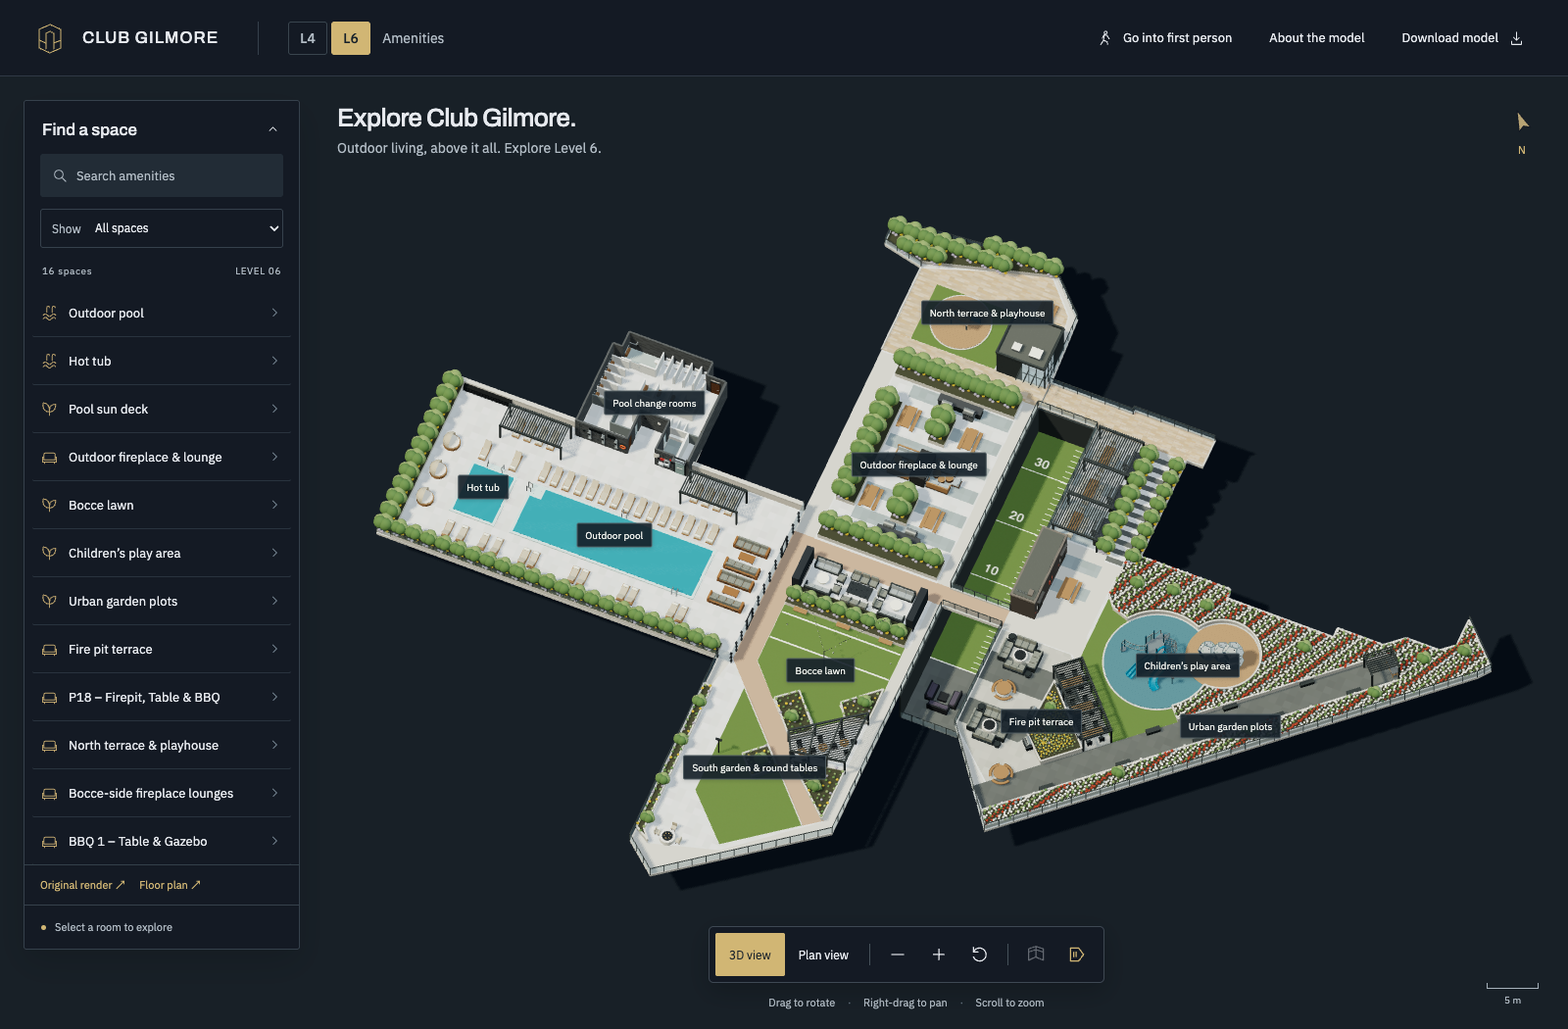
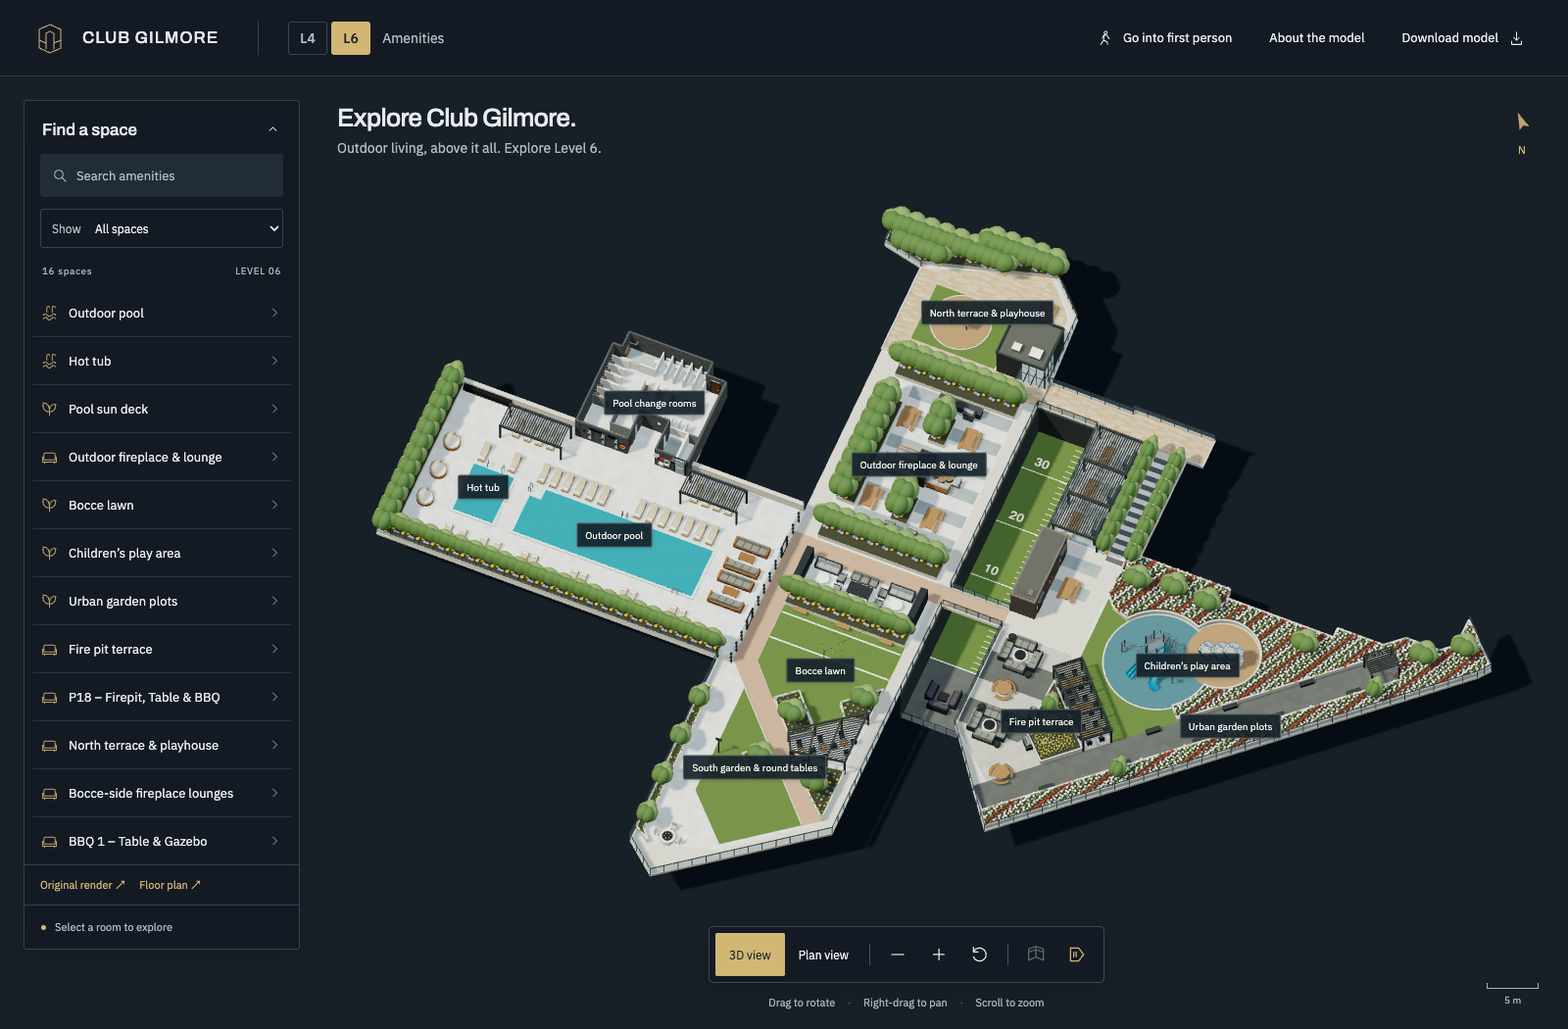
Refine Level 6 scale and navigation based on user feedback; adjust eye height, tree sizes, and walkable areas for improved realism

diff --git a/src/level6.js b/src/level6.js
@@ -13,6 +13,20 @@ const U=.06;
 const PERGOLA_H=2.54,BAY_W=4.572/U,BAY_D=3.81/U,FENCE_H=2.032;
 // Posts carry .19 m of beam and slat above them, so they stop short of 2.54.
 const POST_H=PERGOLA_H-.19;
+// IMG_4005/IMG_4036: the deck's maples stand two to three times the height of
+// the .95 m BBQ counters in front of them, well clear of a walker's head. The
+// shared tree() primitive is 2.9 m tall at scale 1, so planting is sized from a
+// height in metres rather than an eyeballed scale.
+const treeH=m=>m/2.9;
+// Height comes from the species, spread from the bed: tree() carries a ~3.4 m
+// crown at deck height, which a .9 m planter cannot hold without swallowing the
+// walk beside it. Narrow beds keep the full height and squash the crown across
+// the bed only, so the row reads as the tall green strip the render shows.
+const CROWN=3.4;
+const bedSpread=(widthTraceUnits,U)=>Math.max(.34,Math.min(1,(widthTraceUnits*U+.8)/CROWN));
+const slimTree=(parent,x,z,metres,spread=1,acrossX=true)=>{
+ const g=makeGroup(parent,x,z,0);tree(g,0,0,0,treeH(metres));
+ if(acrossX)g.scale.x=spread;else g.scale.z=spread;return g;};
 const world=([x,z])=>[(x-910)*U,(z-670)*U];
 const rect=(x,z,w,d)=>[[x,z],[x+w,z],[x+w,z+d],[x,z+d]];
 // The three BBQ bays are centred on the render's three bay tables (px y
@@ -117,17 +131,27 @@ export function createLevel6Model(){
  // to the coping. The pairs stand at the northwest corner (over a submerged
  // corner step), mid-way along the north edge, and on the south edge just short
  // of the southeast corner. (x,z) is the water edge; (dx,dz) points to the deck.
- const poolRail=(x,z,dx,dz)=>{const [a,b]=world([x+dx*8.5,z+dz*8.5]),[c,d]=world([x+dx*1.2,z+dz*1.2]);
+ // The deck foot sits 5.5 trace units (.33 m) off the water, not 8.5: at .51 m
+ // the rails pinched the north walk shut between the loungers and the coping.
+ const poolRail=(x,z,dx,dz)=>{const [a,b]=world([x+dx*5.5,z+dz*5.5]),[c,d]=world([x+dx*1.2,z+dz*1.2]);
   rod(props,[a,0,b],[a,.95,b],.035);rod(props,[a,.95,b],[c,.82,d],.035);rod(props,[c,.82,d],[c,.16,d],.035);};
  B(252,734,20,20,.186,mats.pooltile);B(249,731,14,14,.196,mats.pooltile);
  for(const z of [728,736.5])poolRail(242,z,-1,0);
  for(const x of [393.8,402.2])poolRail(x,724,0,-1);
  for(const x of [522.8,531.2])poolRail(x,814,0,1);
  const lounger=(x,z,rot=0)=>{const [a,b]=world([x,z]),g=makeGroup(props,a,b,rot);box(g,0,.28,0,.73,.12,1.9,'oak');box(g,0,.39,.24,.65,.14,1.3,'linen');const back=box(g,0,.68,-.64,.65,.13,.8,'linen');back.rotation.x=.68;for(const xx of [-.28,.28])for(const zz of [-.7,.7])box(g,xx,.14,zz,.055,.28,.06,'oak');cyl(g,0,.52,.7,.12,.55,'white').rotation.z=Math.PI/2;};
- for(let x=270;x<560;x+=21){lounger(x,699);}
+ // User reports 2026-09-12. The band between the pergola posts (z=663.3) and the
+ // coping (719.5) is 3.37 m; a 1.9 m lounger leaves 1.47 m, which is one usable
+ // walk, not two — splitting it gave .73 m either side and the walker scraped
+ // both. The render and IMG_4026 both put the beds hard against the coping with
+ // the circulation behind them, so that is where the walk goes: 1.3 m clear.
+ // Two beds are dropped for a 3 m aisle onto the change rooms' entry court,
+ // whose south wall opens between x=355 and 407, so the pool edge, the ladder
+ // and the change rooms all connect.
+ for(let x=270;x<560;x+=21)if(x!==375&&x!==396)lounger(x,701);
  // South-side pairs, evenly spaced from the first (centre 286) so the last
  // bed's east side lines up with the pool's east coping edge (x=558.5).
- for(const c of [286,372.3,458.6,544.9])for(const d of [-8,8])lounger(c+d,852,Math.PI);for(const x of [145,198,249])lounger(x,698);for(const x of [145,170,207,230])lounger(x,852,Math.PI);
+ for(const c of [286,372.3,458.6,544.9])for(const d of [-8,8])lounger(c+d,859,Math.PI);for(const x of [145,198,249])lounger(x,701);for(const x of [145,170,207,230])lounger(x,859,Math.PI);
  // Pergola loungers on the north edge. User requests 2026-09-11: three added
  // beside the lone one under the west pergola; the east pergola's x=470 lounger
  // (hard against the change-room storage door) is removed. Each group centres
@@ -230,8 +254,9 @@ export function createLevel6Model(){
   canopy.position.set(a,.66,b);canopy.rotation.y=-Math.PI/2;
   props.add(canopy);
  }
- // dz nudges the planting anchor across a narrow bed; treeScale trims canopy size.
- const planter=(poly,trees=true,dz=0,treeScale=1)=>{surface(poly,stone,.06,.58);surface(poly,soil,.66);const bounds=new T.Box2().setFromPoints(poly.map(p=>new T.Vector2(...p)));for(let x=bounds.min.x+10;x<bounds.max.x-4;x+=26)for(let z=bounds.min.y+10;z<bounds.max.y-4;z+=26){let inside=false;for(let i=0,j=poly.length-1;i<poly.length;j=i++){const [a,b]=poly[i],[c,d]=poly[j];if((b>z)!==(d>z)&&x<(c-a)*(z-b)/(d-b)+a)inside=!inside;}if(inside){const [a,b]=world([x,z+dz]);if(trees){tree(props,a,b,0,(.7+((x+z)%13)/32)*treeScale);for(let k=0;k<7;k++)mesh(props,new T.IcosahedronGeometry(.18,0),k%5?flower:lavender,a+Math.sin(k*2.4)*.6,.74,b+Math.cos(k*2.4)*.6,1,.6,1);}else{for(let k=0;k<3;k++)mesh(props,new T.IcosahedronGeometry(.32,0),k%2?'leaf':'leaflight',a+k*.2,.8,b,.8,.7,.8);}}}};
+ // dz nudges the planting anchor across a narrow bed; treeScale trims the crown
+ // further, on top of the spread the bed's own width already sets.
+ const planter=(poly,trees=true,dz=0,treeScale=1)=>{surface(poly,stone,.06,.58);surface(poly,soil,.66);const bounds=new T.Box2().setFromPoints(poly.map(p=>new T.Vector2(...p)));const bedW=bounds.max.x-bounds.min.x,bedD=bounds.max.y-bounds.min.y,spread=bedSpread(Math.min(bedW,bedD),U)*treeScale;for(let x=bounds.min.x+10;x<bounds.max.x-4;x+=26)for(let z=bounds.min.y+10;z<bounds.max.y-4;z+=26){let inside=false;for(let i=0,j=poly.length-1;i<poly.length;j=i++){const [a,b]=poly[i],[c,d]=poly[j];if((b>z)!==(d>z)&&x<(c-a)*(z-b)/(d-b)+a)inside=!inside;}if(inside){const [a,b]=world([x,z+dz]);if(trees){slimTree(props,a,b,3.5+((x+z)%13)/13,spread,bedW<bedD);for(let k=0;k<7;k++)mesh(props,new T.IcosahedronGeometry(.2,0),k%5?flower:lavender,a+Math.sin(k*2.4)*.6*(bedW<bedD?spread:1),.85,b+Math.cos(k*2.4)*.6*(bedW<bedD?1:spread),1,.6,1);}else{for(let k=0;k<3;k++)mesh(props,new T.IcosahedronGeometry(.4,0),k%2?'leaf':'leaflight',a+k*.2,.95,b,.8,.7,.8);}}}};
  for(const p of [rect(40,596,25,304),rect(65,879,570,22),rect(699,280,208,32),rect(699,600,208,34),rect(699,357,32,201),rect(795,353,28,51),rect(795,510,28,51)])planter(p);
  // IMG_4005/IMG_4057 and the render crop: behind the pergola grills a paved walk
  // runs between two raised tree planters. The west bed's wall stands at
@@ -294,14 +319,15 @@ export function createLevel6Model(){
   surface(poly,stone,.06,.58);surface(poly,soil,.66);
   for(let i=0;i<poly.length;i++)line(poly[i],poly[(i+1)%poly.length],.2,stone,.18,.59);
   const bounds=new T.Box2().setFromPoints(poly.map(p=>new T.Vector2(...p)));
-  const narrow=bounds.max.x-bounds.min.x<20,stepX=step||(narrow?5:9),stepZ=step||(narrow?12:9);
+  const bedW=bounds.max.x-bounds.min.x,bedD=bounds.max.y-bounds.min.y;
+  const narrow=bedW<20,stepX=step||(narrow?5:9),stepZ=step||(narrow?12:9),spread=bedSpread(Math.min(bedW,bedD),U);
   for(let x=bounds.min.x+3;x<bounds.max.x-2;x+=stepX)for(let z=bounds.min.y+3;z<bounds.max.y-2;z+=stepZ)if(insidePolygon(x,z,poly)){
    const jitter=Math.sin(x*1.73+z*.91),[wx,wz]=world([x+jitter*1.2,z+Math.cos(x*.47-z)*1.2]);
    if(clearance&&!clearance(x+jitter*1.2,z+Math.cos(x*.47-z)*1.2))continue;
    const material=palette?palette[Math.round(x*2+z)%palette.length]:(Math.round(x+z)%5===0)?flower:(Math.round(x*2+z)%7===0)?lavender:(Math.round(x+z)%2?'leaflight':'leaf');
    mesh(props,new T.IcosahedronGeometry(.13+(Math.abs(jitter)*.05),0),material,wx,.79+(Math.abs(jitter)*.06),wz,.9,.65,.9);
   }
-  for(const [x,z] of treesAt){const [wx,wz]=world([x,z]);tree(props,wx,wz,0,.62);}
+  for(const [x,z] of treesAt){const [wx,wz]=world([x,z]);slimTree(props,wx,wz,3.4,spread,bedW<bedD);}
  };
  southBeds.forEach((bed,i)=>southPlanter(bed,southTreeAnchors[i]));
  // IMG_3991: the second user-marked object is a single black post light in
@@ -398,7 +424,7 @@ export function createLevel6Model(){
   .filter(([x,z])=>playClearance(x,z,.76/U)>0);
  southPlanter(playgroundPlanter,playgroundTrees,eastPalette,5,(x,z)=>playClearance(x,z,.19/U)>0);
  // The render carries a few small trees in the parapet-side bed.
- for(const t of [.28,.55,.8]){const [x,z]=world(at(t,20));tree(props,x,z,0,.6);}
+ for(const t of [.28,.55,.8]){const [x,z]=world(at(t,20));slimTree(props,x,z,3.2,.62);}
  surface(band(.012,.86,35,83),paveGrey,.075);
  // Dark bench blocks alternate along the walk. Blocks 0 and 2 are skipped: 0
  // landed inside the fire-terrace round table's curved benches, 2 against the
@@ -617,7 +643,7 @@ export function createLevel6Model(){
   for(let i=0;i<6;i++){const a=i*1.07+px*.09;mesh(props,new T.ConeGeometry(.045,.48+(i%3)*.08,5),i%3?'leaflight':flower,x+Math.cos(a)*.32,.9,z+Math.sin(a)*.26,.65,1,.65);}
   for(let i=0;i<3;i++){const a=i*2.1;mesh(props,new T.IcosahedronGeometry(.17+(i%2)*.07,0),i%2?flower:lavender,x+Math.cos(a)*.35,.88,z+Math.sin(a)*.28,.8,.75,.8);}
  }
- for(const [tx,tz] of [[1169,784],[1185,821]]){const [x,z]=world([tx,tz]);tree(props,x,z,0,.5);}
+ for(const [tx,tz] of [[1169,784],[1185,821]]){const [x,z]=world([tx,tz]);slimTree(props,x,z,2.8,.7);}
  // IMG_4010: these read as plain black boxes because the hood used the dark local
  // `metal`, not stainless. Rebuilt to the same idiom as the counter BBQs above —
  // stainless firebox and rounded lid, black fascia, steel knobs, dark cabinet.

diff --git a/src/firstPerson/FirstPersonController.js b/src/firstPerson/FirstPersonController.js
@@ -1,7 +1,7 @@
 import { Euler, PerspectiveCamera, Vector3 } from 'three';
 import { FirstPersonInput } from './FirstPersonInput.js';
 
-const DEFAULTS = { spawn: new Vector3(), yaw: 0, floorHeight: 0, eyeHeight: 1.68, walkSpeed: 2.2, sprintSpeed: 5.4 };
+const DEFAULTS = { spawn: new Vector3(), yaw: 0, floorHeight: 0, eyeHeight: 1.664, walkSpeed: 2.2, sprintSpeed: 5.4 };
 const clamp = (value, min, max) => Math.min(max, Math.max(min, value));
 // Cosmetic hop: eye height only, navigation stays 2D so railings still block mid-air.
 const GRAVITY = 9.8, JUMP_HEIGHT = .9; // ~3 ft peak, below railing height
@@ -11,7 +11,10 @@ export class FirstPersonController {
     this.scene = scene; this.domElement = domElement; this.navigationWorld = navigationWorld;
     this.config = { ...DEFAULTS, ...config, spawn: config.spawn?.clone?.() || new Vector3().copy(config.spawn || DEFAULTS.spawn) };
     this.onStateChange = onStateChange; this.requestRender = requestRender;
-    this.camera = new PerspectiveCamera(68, 1, .05, 500);
+    // Three's fov is vertical: 68 was ~100 degrees across at 16:9, a fisheye that
+    // shrank everything nearby and made the walker feel taller than the deck.
+    // 50 vertical (~80 across) matches the site photographs' ~50 degree framing.
+    this.camera = new PerspectiveCamera(50, 1, .05, 500);
     this._position = this.config.spawn.clone(); this.yaw = this.config.yaw; this.pitch = 0;
     this._active = false; this._paused = false; this.avatar = null;
     this.motionSpeed = 0; this.walkPhase = 0; this.jumpY = 0; this.jumpV = 0;
@@ -35,7 +38,8 @@ export class FirstPersonController {
     if (this.avatar?.root?.parent) this.avatar.root.parent.remove(this.avatar.root);
     this.avatar = avatar || null;
     if (avatar?.root && this.scene && !avatar.root.parent) this.scene.add(avatar.root);
-    if (avatar?.root) avatar.root.visible = this._active;
+    // The body is modelled for a 1.68 m eye, so it follows the configured one.
+    if (avatar?.root) { avatar.root.scale.setScalar(this.config.eyeHeight / 1.68); avatar.root.visible = this._active; }
     return this;
   }
   enter() {

diff --git a/src/firstPerson/NavigationWorld.js b/src/firstPerson/NavigationWorld.js
@@ -81,7 +81,8 @@ export function createLevel6Navigation(model) { // model is accepted for the sha
     spawn: new THREE.Vector3(spawn.x, 0.08, spawn.y),
     yaw: Math.PI / 2,
     floorHeight: 0.08,
-    eyeHeight: 1.68,
+    // 5 ft 10 in (1.778 m) tall; the eyes sit ~.11 m below the crown.
+    eyeHeight: 1.664,
     radius: 0.30,
     walkSpeed: 2.2,
     walkablePolygons: WALKABLE.map(poly => poly.map(point => point.clone())),

diff --git a/MODEL-SOURCES.md b/MODEL-SOURCES.md
@@ -1329,3 +1329,102 @@ Still unmeasured, and still inference: pool and hot-tub dimensions, deck-edge ra
 heights, planter and bench sizes, playground equipment, buildings and trees. They scale with the
 trace unit but no tape has been put to them.
 
+### Walker's eye height and planting heights — September 12, 2026
+
+Two follow-ups to the measured deck scale, both from the user walking Level 6 in first person and
+reporting that they still stood too tall for their surroundings.
+
+**Eye height.** The walker is a 5 ft 10 in (1.778 m) person, so `eyeHeight` is 1.664 m — stature
+less the ~0.11 m from eye to crown — in `createLevel6Navigation()` and in `FirstPersonController`'s
+defaults. It was 1.68 m, which is the eye height of a person about 1.80 m tall. `FirstPersonAvatar`
+is modelled around a 1.68 m eye, so the controller now scales its root by `eyeHeight / 1.68`
+rather than leaving the legs and arms at the old size.
+
+**Planting.** That change is only 1.6 cm, and it was not what made the walk feel wrong: the deck's
+trees were the problem. IMG_4005 (the northeast planter walk) and IMG_4036 (the lounge BBQ
+counter) both show maples standing two to three metres above a standing adult — three to four
+times the 0.6 m planter walls, and far above the 0.95 m counters. The model's trees were 1.45 m to
+3.2 m tall, most of them under 2 m, so a walker looked over the entire deck.
+
+`tree()` in `model.js` is 2.9 m tall at scale 1 and is shared with Level 4, so it is unchanged;
+Level 6 now sizes its plantings by height in metres through `treeH(m)`:
+
+- planter beds: 3.5–4.4 m, still multiplied by each bed's `treeScale` (the 0.74 narrow-bed beds
+  come out 2.6–3.3 m);
+- south and playground bed anchors: 3.4 m; northeast walk-end trees: 3.2 m; fire-terrace pair:
+  2.8 m.
+
+Bed flowering clumps grew from 0.18 m to 0.26 m radius and sit at 0.85 m, and the hedge clumps in
+tree-less beds from 0.32 m to 0.4 m at 0.95 m, which puts their tops near 1.2 m — the height of
+the flowering masses behind the counters in IMG_4036. Canopies still carry no collision, so the
+taller trees do not block the walk.
+
+Everything else with a hand-authored height was checked against the same photographs and left
+alone: planter walls (0.58 m plus coping), BBQ counters (1.02 m), deck-edge glass guards (1.19 m),
+the north parapet (1.15 m), change-room counters (0.84–0.9 m) and the 3 m walk-mode partitions.
+
+### Crown spread fitted to each bed — September 12, 2026
+
+Raising the trees to their real height also gave every one of them a ~3.4 m crown, and several of
+the deck's beds are far narrower than that: the strip east of the BBQ bays is 15.7 trace units,
+0.94 m. The user's screenshot showed those crowns meeting over the paved walk beside the bays and
+closing it off.
+
+Height and spread are now separate. `bedSpread()` takes each bed's own narrow dimension and
+returns the fraction of the crown that fits, allowing 0.4 m of overhang per side and never going
+below 0.34; `slimTree()` applies it across the bed's narrow axis only, so the crown stays full
+along the bed and the row reads as the continuous green strip the render shows. A bed's
+`treeScale` argument still multiplies on top (the 0.74 bocce-side bed keeps its extra trim).
+Trunks were always inside their beds, so this was a visual obstruction, not a navigation one —
+canopies carry no collision. Bed flower clumps went back to 0.2 m and their offsets take the same
+spread, so they no longer spill onto the paving.
+
+Worked examples: the 0.94 m bay strip gets 0.51 (1.7 m of crown across a 0.94 m bed), the 1.32 m
+pool-deck strip 0.62, and the 1.92 m lounge beds 0.80. Beds wider than about 2.6 m are unaffected.
+
+### Pool-side walks — September 12, 2026
+
+The user marked the circulation loop around the pool as too tight to walk. Measured: the north
+lounger row sat at trace z = 699 with a 1.9 m bed, leaving its feet at z = 714.8 against coping at
+z = 719.5 — **0.28 m**, narrower than the walker's own 0.30 m radius, so the pool's north side
+could not be entered at all. A navigation probe over the built scene confirmed it: 70 of 78 sample
+points along that walk failed `isSafe`, and the only walkable band was *behind* the loungers.
+
+Both rows now sit back against their own edges: the north row (and the three hot-tub-end beds) at
+z = 680, the south row at z = 859, hard against the z = 879 edge planter their backs already face.
+That leaves about 1.4 m of walk on each pool side — 0.78 m of free travel for the player's centre
+line on the north — with the rows still inside their own strips. The pool, coping, ladders, deck
+sofas and the east and west ends are untouched; the east walk past the sofa pairs was already
+1.35 m.
+
+Lounger positions are illustrative in the first place (the render shows the rows, not their
+setback), so this moves furniture within its own evidence, not against a measurement.
+
+**Superseded the same day** — see "One walk, not two" below. Pulling the north row back opened the
+pool side but closed the walk behind it, which is the route to the change rooms.
+
+### One walk, not two, on the pool's north side — September 12, 2026
+
+The user then could not reach the change rooms: the row at z = 680 left only 0.54 m behind it, and
+the gaps between adjacent beds are 0.54 m as well, so the row had become a wall across the deck.
+
+The band is the constraint. From the pergola posts (their faces reach z = 663.3) to the coping
+(z = 719.5) is 3.37 m. A 1.9 m lounger leaves 1.47 m, which is **one** usable walk, not two: split
+evenly it gives 0.73 m either side, and with the 0.30 m walker radius that is a 0.13 m margin on
+each — the scraping the user was reporting. The supplied render and IMG_4026 both settle it by
+putting the beds hard against the coping with the circulation behind them, so the model now does
+the same:
+
+- north row at z = 701, its feet 0.16 m off the coping, giving a continuous **1.3 m walk behind**
+  it that clears the pergola posts along the whole deck;
+- the beds at x = 375 and 396 are dropped for a **3 m aisle** onto the change rooms' entry court,
+  whose south wall opens between x = 355 and 407, so the change rooms, the pool edge and the north
+  ladder all connect;
+- the south row stays at z = 859 with its 1.4 m pool-side walk — that band is wider and takes one;
+- pool ladder rails now foot 5.5 trace units (0.33 m) off the water instead of 8.5 (0.51 m), which
+  is also closer to IMG_4028/4032; at 0.51 m they stood in the walk.
+
+Verified by probing `navigationWorld.isSafe()` over the built scene rather than by eye: the walk
+behind the row, the south walk and the change-room aisle are now clear at every sample point, and
+`verify-level6.cjs` asserts all three on every run.
+

diff --git a/QA.md b/QA.md
@@ -428,3 +428,58 @@ The plan, sun-deck, BBQ-bay and desktop views were inspected after the rescale a
 furniture collisions from the 7.7% deck shrink. The rest of the deck was not walked through at
 close range; anything not listed above remains pending visual validation.
 
+### First-person height pass — September 12, 2026
+
+`eyeHeight` is 1.664 m (5 ft 10 in) and the avatar body scales with it; Level 6 trees are 2.8–4.4 m
+and bed clumps top out near 1.2 m. Checks that passed:
+- `node scripts/verify-level6.cjs`: **PASS**, no page errors.
+- `npm run build` passes.
+- A headless first-person run read the camera back at y = 1.744 m (0.08 floor + 1.664) with the
+  avatar root scaled 0.990, and captured the north bridge, pool deck, playground and garden walk.
+  The trees now stand well above the camera, as in IMG_4005 and IMG_4036.
+
+Screenshots from that run are in the scratch directory, not in `evidence/`; the only committed
+Level 6 images are the ones `verify-level6.cjs` writes. The four viewpoints above were inspected,
+not the whole deck.
+
+### Walking camera field of view — September 12, 2026
+
+The user reported the pool enclosure still looking short from inside the walk. Measured out of the
+built scene (vertex scan around trace 660, 760 and the gate at 660, 680): both the glass run and
+the gate top out at **2.032 m**, and the walking camera sits at 1.744 m (0.08 m floor + 1.664 m
+eye), so the geometry was already right — the fence stands 0.37 m above the walker's eye.
+
+The distortion was the camera: `FirstPersonController` used a 68° *vertical* fov, which is about
+100° across at 16:9 — a fisheye that pushes nearby geometry away and flattens its apparent height.
+It is now 50° vertical (~80° across), close to the ~50° vertical framing of the site photographs,
+so the walk matches IMG_4026 and IMG_4035. `verify-level6.cjs`: **PASS**; `npm run build` passes.
+
+Views re-inspected at the new fov: the north-bridge spawn, the walkway facing the pool enclosure,
+standing at the gate, and inside the pool deck. Note that at 2–3 m back the enclosure correctly
+reads as only slightly above eye level; it only towers when you are next to it, as in IMG_4026.
+
+### Crown spread — September 12, 2026
+
+Trees keep their 2.8–4.4 m heights; crowns are now squashed across narrow beds by `bedSpread()`.
+`verify-level6.cjs`: **PASS**. `npm run build` passes. Re-inspected in the walking view: the walk
+east of the BBQ bays (the one the user reported blocked) is open with trunks flanking it and
+canopies overhead, the BBQ 3 bay is visible from the deck again, and the garden boardwalk, pool
+deck and north bridge are unchanged. Beds wider than ~2.6 m were not altered.
+
+### Pool-side walk clearance — September 12, 2026
+
+`verify-level6.cjs` now enters first person and probes `navigationWorld.isSafe()` every 4 trace
+units from x = 150 to 558 along both pool-side walks (z = 708 north, z = 831 south), and fails if
+any point is unwalkable. Against the previous lounger positions the north scan failed at 70 points;
+with the rows moved it passes at every point, north and south. Full run: **PASS**; `npm run build`
+passes. The walk was also inspected in the walking view from both sides.
+
+### Pool deck routes — September 12, 2026 (supersedes the clearance entry above)
+
+`verify-level6.cjs` now probes three routes, each of which was blocked at some point today: the
+walk behind the north lounger row (z = 675), the south pool-side walk (z = 831), and the aisle
+from the change rooms' entry court to the water (x = 381, z = 600–712; 712 is as close to the pool
+as a 0.30 m radius allows). All three pass at every sample point. Full run: **PASS**;
+`npm run build` passes. The aisle and the walk behind the row were also inspected in the walking
+view.
+

diff --git a/README.md b/README.md
@@ -31,7 +31,7 @@ npm run dev      # vite dev server, fixed at http://127.0.0.1:4173
 
 Drag to orbit, right-drag to pan, scroll or pinch to zoom. Keyboard users can select from the room list and use the view buttons; arrow keys pan when the canvas has focus. Below 760 px the viewer shows either the room browser or the detail sheet, never both, and touch targets stay at 44 px minimum.
 
-**Go into first person** walks Level 6 at a 1.68 m eye height: WASD or the arrow keys to walk, the mouse to look, Space to jump, Shift to run and Esc to pause. Pool gates slide and hinged doors swing open for the walk. The change-room partitions and stall doors rise to the full 3 m wall height so you cannot see over them; the orbit view keeps them low.
+**Go into first person** walks Level 6 as a 5 ft 10 in (1.778 m) person, eyes at 1.664 m: WASD or the arrow keys to walk, the mouse to look, Space to jump, Shift to run and Esc to pause. Pool gates slide and hinged doors swing open for the walk. The change-room partitions and stall doors rise to the full 3 m wall height so you cannot see over them; the orbit view keeps them low.
 
 ## How it is built
 
